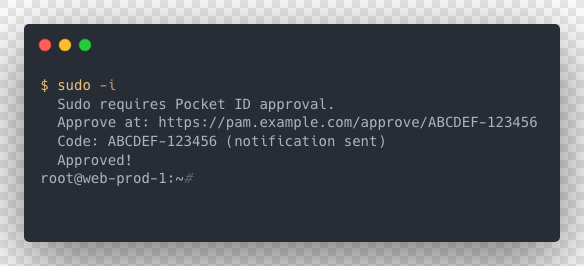
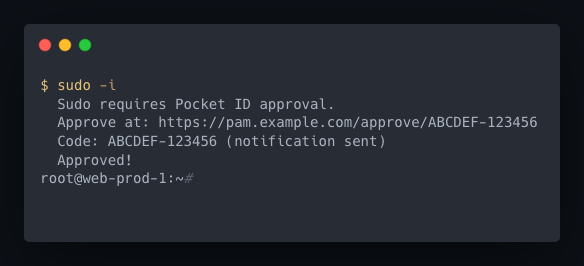
Fix terminal background, add notification screenshot

Changed region(s): [[0.0, 0.0, 1.0, 1.0]]

diff --git a/README.md b/README.md
@@ -29,6 +29,9 @@ Browser-based sudo elevation via [Pocket ID](https://github.com/pocket-id/pocket
 ### Terminal
 ![Terminal](screenshots/terminal.png)
 
+### Notification
+![Notification](screenshots/notification.png)
+
 ## How it works
 
 ```
